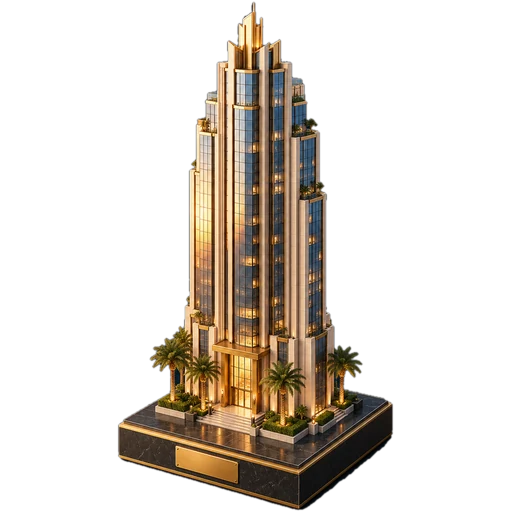
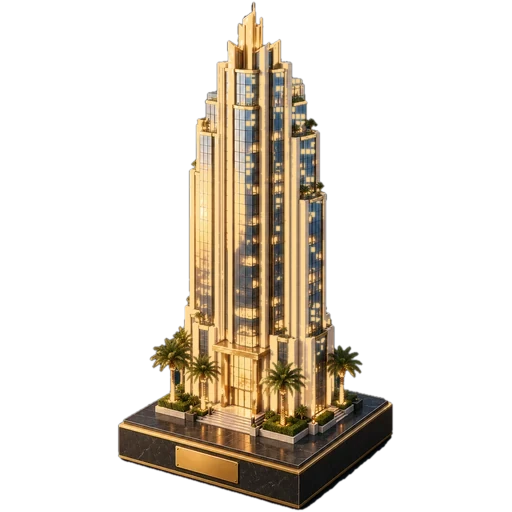
Skyline Estates: bigger board buildings, lit Skyline Tower with owner-colour glow and beacon
Claude-Session: https://claude.ai/code/session_01RNdXtxj5jJWnrVFgMCF1s1

Changed region(s): [[0.3125, 0.0312, 0.6875, 0.8125]]

diff --git a/skyline-estates/game.html b/skyline-estates/game.html
@@ -6933,11 +6933,20 @@ if(PREF.illBld===undefined)PREF.illBld=true;
 const BLDTEX={};
 function bldTex(l,cb){let e=BLDTEX[l];if(e){e.t?cb(e.t):e.q.push(cb);return}e=BLDTEX[l]={t:null,q:[cb]};
   const im=new Image();im.onload=()=>{if(!GL)return;const c=document.createElement('canvas');c.width=c.height=512;c.getContext('2d').drawImage(im,0,0,512,512);e.t=texFrom(c);e.q.forEach(f=>f(e.t));e.q=[]};im.src=bldPic(l)}
-const BLD_SC=[.62,.66,.72,.74,.8,.98];
+const BLD_SC=[.8,.88,.98,1.04,1.14,1.5];
 function bldBill(b,lv,col,mort){const F=FM();
   b.add(N(S3.geo.cyl,mat(col,{spec:.4,em:.15}),0,.004,0).sc(.32,.008,.32));
   const mt=mat(mort?'#8a8f96':'#ffffff',{unlit:1,blend:1}),q=N(bQuad(),mt,0,0,0).sc(BLD_SC[lv]);q.visible=false;b.add(q);
-  bldTex(lv,tx=>{mt.tex=tx;q.visible=true});(S3.bills=S3.bills||new Set()).add(q);return BLD_SC[lv]*.9}
+  bldTex(lv,tx=>{mt.tex=tx;q.visible=true});(S3.bills=S3.bills||new Set()).add(q);
+  if(lv===5&&!mort)towerLights(q,col);return BLD_SC[lv]*.9}
+/* the Skyline Tower glows at night: a warm halo behind it and a beacon blinking on the crown */
+let HALOTEX=null;
+function towerLights(q,col){const lc=hex(col).map(v=>Math.min(1,v*.85+.15));if(!HALOTEX){const c=cnv(128,128,x=>{const g=x.createRadialGradient(64,64,4,64,64,62);g.addColorStop(0,'rgba(255,255,255,1)');g.addColorStop(.35,'rgba(255,255,255,.7)');g.addColorStop(.7,'rgba(255,255,255,.22)');g.addColorStop(1,'rgba(255,255,255,0)');x.fillStyle=g;x.fillRect(0,0,128,128)});HALOTEX=texFrom(c)}
+  const hm=mat(lc,{unlit:1,blend:1,tex:HALOTEX,a:.85}),h=N(bQuad(),hm,0,-.02,-.03).sc(1.15,1.12,1);q.add(h);
+  const bm=mat(lc,{unlit:1,blend:1,tex:HALOTEX,a:1}),b=N(bQuad(),bm,0,.9,.02).sc(.2,.2,1);q.add(b);
+  (S3.towerFx=S3.towerFx||[]).push({hm,bm,b,ph:Math.random()*6})}
+{const _ds2=drawScene;drawScene=function(time){if(S3&&S3.towerFx&&S3.towerFx.length){S3.towerFx=S3.towerFx.filter(f=>{let n=f.b;while(n.parent)n=n.parent;return n===ROOT||!f.seen&&(f.seen=1)});
+    S3.towerFx.forEach(f=>{f.hm.a=.8+.15*Math.sin(time*1.6+f.ph);const k=(Math.sin(time*3.2+f.ph)>.55)?1:.25;f.bm.a=k;f.b.s=[.2*(k>.5?1.3:1),.2*(k>.5?1.3:1),1]})}return _ds2(time)}}
 {const _uc=updateCell;updateCell=function(i,anim){_uc(i,anim);
   if(FAST||!S3||!PREF.illBld||!PREF.illTok||!GL||SQ[i].t!=='prop')return;const o=G.own[i],pl=S3.plots[i];if(!pl||o.o<0||!pl.floors.length)return;
   const b=pl.floors[0];b.kids.slice().forEach(k=>b.remove(k));const lv=o.m?0:o.h;pl.top=bldBill(b,lv,P(o.o).col,o.m)}}

diff --git a/skyline-estates/index.html b/skyline-estates/index.html
@@ -6933,11 +6933,20 @@ if(PREF.illBld===undefined)PREF.illBld=true;
 const BLDTEX={};
 function bldTex(l,cb){let e=BLDTEX[l];if(e){e.t?cb(e.t):e.q.push(cb);return}e=BLDTEX[l]={t:null,q:[cb]};
   const im=new Image();im.onload=()=>{if(!GL)return;const c=document.createElement('canvas');c.width=c.height=512;c.getContext('2d').drawImage(im,0,0,512,512);e.t=texFrom(c);e.q.forEach(f=>f(e.t));e.q=[]};im.src=bldPic(l)}
-const BLD_SC=[.62,.66,.72,.74,.8,.98];
+const BLD_SC=[.8,.88,.98,1.04,1.14,1.5];
 function bldBill(b,lv,col,mort){const F=FM();
   b.add(N(S3.geo.cyl,mat(col,{spec:.4,em:.15}),0,.004,0).sc(.32,.008,.32));
   const mt=mat(mort?'#8a8f96':'#ffffff',{unlit:1,blend:1}),q=N(bQuad(),mt,0,0,0).sc(BLD_SC[lv]);q.visible=false;b.add(q);
-  bldTex(lv,tx=>{mt.tex=tx;q.visible=true});(S3.bills=S3.bills||new Set()).add(q);return BLD_SC[lv]*.9}
+  bldTex(lv,tx=>{mt.tex=tx;q.visible=true});(S3.bills=S3.bills||new Set()).add(q);
+  if(lv===5&&!mort)towerLights(q,col);return BLD_SC[lv]*.9}
+/* the Skyline Tower glows at night: a warm halo behind it and a beacon blinking on the crown */
+let HALOTEX=null;
+function towerLights(q,col){const lc=hex(col).map(v=>Math.min(1,v*.85+.15));if(!HALOTEX){const c=cnv(128,128,x=>{const g=x.createRadialGradient(64,64,4,64,64,62);g.addColorStop(0,'rgba(255,255,255,1)');g.addColorStop(.35,'rgba(255,255,255,.7)');g.addColorStop(.7,'rgba(255,255,255,.22)');g.addColorStop(1,'rgba(255,255,255,0)');x.fillStyle=g;x.fillRect(0,0,128,128)});HALOTEX=texFrom(c)}
+  const hm=mat(lc,{unlit:1,blend:1,tex:HALOTEX,a:.85}),h=N(bQuad(),hm,0,-.02,-.03).sc(1.15,1.12,1);q.add(h);
+  const bm=mat(lc,{unlit:1,blend:1,tex:HALOTEX,a:1}),b=N(bQuad(),bm,0,.9,.02).sc(.2,.2,1);q.add(b);
+  (S3.towerFx=S3.towerFx||[]).push({hm,bm,b,ph:Math.random()*6})}
+{const _ds2=drawScene;drawScene=function(time){if(S3&&S3.towerFx&&S3.towerFx.length){S3.towerFx=S3.towerFx.filter(f=>{let n=f.b;while(n.parent)n=n.parent;return n===ROOT||!f.seen&&(f.seen=1)});
+    S3.towerFx.forEach(f=>{f.hm.a=.8+.15*Math.sin(time*1.6+f.ph);const k=(Math.sin(time*3.2+f.ph)>.55)?1:.25;f.bm.a=k;f.b.s=[.2*(k>.5?1.3:1),.2*(k>.5?1.3:1),1]})}return _ds2(time)}}
 {const _uc=updateCell;updateCell=function(i,anim){_uc(i,anim);
   if(FAST||!S3||!PREF.illBld||!PREF.illTok||!GL||SQ[i].t!=='prop')return;const o=G.own[i],pl=S3.plots[i];if(!pl||o.o<0||!pl.floors.length)return;
   const b=pl.floors[0];b.kids.slice().forEach(k=>b.remove(k));const lv=o.m?0:o.h;pl.top=bldBill(b,lv,P(o.o).col,o.m)}}
